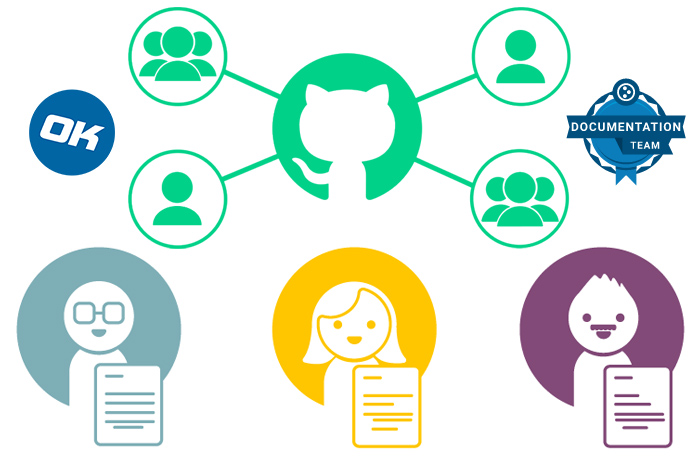
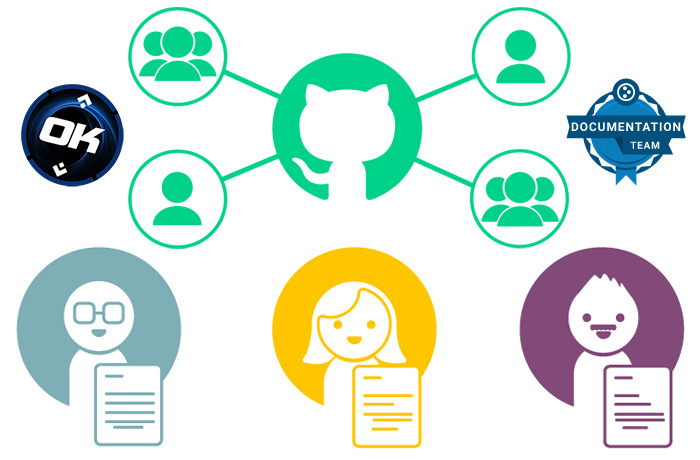
up + new brand

Changed region(s): [[0.03, 0.1826, 0.18, 0.4261]]

diff --git a/index.php b/index.php
@@ -16,6 +16,7 @@ $marketcap = file_get_contents("stats/marketcap.txt");
 	<meta property="og:image" content="https://okcash.co/images/okcash-ok.jpg">
 	<meta property="og:image:type" content="image/jpeg">
 	<meta property="og:image:width" content="900">
+	<meta property="og:image:width" content="900">
 	<meta property="og:image:height" content="450">
 	<meta property="og:type" content="website" />
     <meta property="og:url" content="https://okcash.co/"/>
@@ -45,7 +46,7 @@ $marketcap = file_get_contents("stats/marketcap.txt");
 	<header class="site-header is-sticky">
 
 		<!-- Place Particle Js -->
-		<div id="particles-js" class="particles-container particles-js"></div>
+		<!-- <div id="particles-js" class="particles-container particles-js"></div> -->
 
 		<!-- Navbar -->
 		<div class="navbar navbar-expand-lg is-transparent" id="mainnav">
@@ -74,14 +75,14 @@ $marketcap = file_get_contents("stats/marketcap.txt");
 								<a class="dropdown-item menu-link" href="#stats">OK Info + Stats</a>
 								<a class="dropdown-item menu-link" href="#worldwide">Worldwide Stats</a>
 								<a class="dropdown-item menu-link" href="#faq">Frequently AQ</a>
-								<a class="dropdown-item menu-link" href="#ok-voluntaries">OK voluntaries</a>
+								<a class="dropdown-item menu-link" href="#ok-voluntaries">OK volunteers</a>
 								<a class="dropdown-item menu-link" href="#sharing">Sharing is caring</a>
 							</div>
 						</li>
 					</ul>
 					<ul class="navbar-nav navbar-btns animated" data-animate="fadeInDown" data-delay="1.15">
-						<li class="nav-item"><a class="nav-link btn btn-sm btn-outline menu-link" href="https://chainz.cryptoid.info/ok/" target="_blank">OK explorer</a></li>
-						<li class="nav-item"><a class="nav-link btn btn-sm btn-outline menu-link" href="#apps">Free Download</a></li>
+						<li class="nav-item"><a class="nav-link btn btn-sm btn-outline menu-link" href="#apps">Download OK</a></li>
+						<li class="nav-item"><a class="nav-link btn btn-sm btn-outline menu-link" href="https://oktoken.cash" target="_blank">Swap OK BEP20</a></li>
 					</ul>
 				</div>
 			</nav>
@@ -98,8 +99,8 @@ $marketcap = file_get_contents("stats/marketcap.txt");
 								<h1 class="animated" data-animate="fadeInUp" data-delay="1.55">Okcash • Energy Friendly and Open source Peer-to-Peer Electronic Cash </h1>
 								<p class="lead color-secondary animated" data-animate="fadeInUp" data-delay="1.65">Micro Transactions • Speed • Efficiency • Security<br/>Decentralize Everything and Empower Everyone</p>
 								<ul class="btns animated" data-animate="fadeInUp" data-delay="1.75">
-									<li><a href="https://okcash.org/" target="_blank" class="btn">Learn more at Okcash.org</a></li>
-									<li><a href="https://bitcoinfullnode.org/" target="_blank" class="btn btn-alt">Visit BitcoinFullnode.org</a></li>
+									<li><a href="https://chainz.cryptoid.info/ok/" target="_blank" class="btn">Okcash [OK] Explorer</a></li>
+									<li><a href="https://bscscan.com/token/0x523821d20a283d955f6205b4c9252779cd0f964b" target="_blank" class="btn btn-alt">Wrapped Okcash [OK BEP20] Explorer</a></li>
 								</ul>
 								<ul class="social">
 									<li class="animated" data-animate="fadeInUp" data-delay="1.8"><a href="https://discord.io/cryptocurrency" target="_blank"><em class="fab fa-discord"></em></a></li>
@@ -115,8 +116,8 @@ $marketcap = file_get_contents("stats/marketcap.txt");
 						<div class="col-lg-6 col-md-12 order-first">
 							<div class="header-image animated" data-animate="fadeInRight" data-delay="1.25">
 								<img src="images/header-ok-btc-network.png" alt="header">
-								<img class="header-image-icon left-icon" src="images/okcash-icon-a.png" alt="header-icon">
-								<img class="header-image-icon right-icon" src="images/bitcoin-icon-b.png" alt="header-icon">
+								<!-- <img class="header-image-icon left-icon" src="images/okcash-icon-a.png" alt="header-icon">
+								<img class="header-image-icon right-icon" src="images/bitcoin-icon-b.png" alt="header-icon"> -->
 							</div>
 						</div><!-- .col  -->
 					</div><!-- .row  -->
@@ -141,7 +142,7 @@ $marketcap = file_get_contents("stats/marketcap.txt");
 						<h4 class="animated" data-animate="fadeInUp" data-delay="0">What is Okcash?</h4>
 						<p class="lead animated" data-animate="fadeInUp" data-delay=".1">OKCash is a hybrid cryptocurrency that evolved into a full Proof of Stake (PoS) system. [Efficient &amp; Energy Friendly]</p>
 						<p class="animated" data-animate="fadeInUp" data-delay=".2"> Okcash is simple to use, efficient and sustainable, it boasts of a confirmation rate higher than most cryptocurrencies, fast speeds, low fees, long term sustainable staking [With LTSSposv3hybrid system, Okcash reaches full predictability and it becomes like mining on Bitcoin (each block holds a semi-static reward, increasing even further the fairness and security of the chain over any actual PoS system)], and is also ready for the Internet of Things (IoT) and every OS Platform.</p>
-						<p class="animated" data-animate="fadeInUp" data-delay=".3">Okcash is a decentralized and fast growing  cryptocurrency / movement that was born on Nov 24th 2014. OK was mined (PoW-Scrypt) and evolved to be stake-able (PoS-LTSS-Sha256). Okcash is not a security, it never had an ICO, nor any kind of funding rounds. OK is self sustainable and is fully supported by voluntaries (Just like Bitcoin).</p>
+						<p class="animated" data-animate="fadeInUp" data-delay=".3">Okcash is a decentralized and fast growing  cryptocurrency / movement that was born on Nov 24th 2014. OK was mined (PoW-Scrypt) and evolved to be stake-able (PoS-LTSS-Sha256). Okcash is not a security, it never had an ICO, nor any kind of funding rounds. OK is self sustainable and is fully supported by volunteers (Just like Bitcoin).</p>
 					</div>
 				</div><!-- .col  -->
 			</div><!-- .row  -->
@@ -194,8 +195,8 @@ $marketcap = file_get_contents("stats/marketcap.txt");
 						<h2 class="section-title animated" data-animate="fadeInUp" data-delay="0">The Okcash Wallet 
 							<span>OK</span>
 						</h2>
-						<p class="animated" data-animate="fadeInUp" data-delay=".1">Your Okcash wallet is the software you use to send, receive and store your Okcash. It’s simple to use and you can choose to send and receive OK payments or secure messages from your own OK wallet.</p>
-						<a href="https://okcash.org/#jf_download" class="btn btn-sm" target="_blank">Join the OK movement and Get my Okcash wallet Now!</a>
+						<p class="animated" data-animate="fadeInUp" data-delay=".1">Your Okcash wallet is the software you use to send, receive and store your Okcash. It’s simple to use and you can choose to send and receive OK payments from your own OK wallet.</p>
+						<a href="https://okcash.org/#jf_download" class="btn btn-sm" target="_blank">Download the Okcash Wallet from Okcash.org</a>
 					</div>
 				</div>
 			</div>
@@ -214,7 +215,7 @@ $marketcap = file_get_contents("stats/marketcap.txt");
 						<ul class="animated" data-animate="fadeInUp" data-delay=".1">
 							<li>Multiplatform [Windows, Mac, Linux, Android, IoT devices]</li>
 							<li>100% upload time + Decentralized.</li>
-							<li>Efficiency [5+ years tested chain]</li>
+							<li>Efficiency [7+ years tested chain]</li>
 							<li>Availability world wide [Network running 24/7]</li>
 							<li>Transaction Speeds [Less than 72 seconds]</li>
 							<li>Lowest Fees [ 0.0001 OK = 0.000005 USD aprox*] </li>
@@ -403,55 +404,55 @@ $marketcap = file_get_contents("stats/marketcap.txt");
 				<div class="col-lg">
 					<div class="single-roadmap roadmap-lg roadmap-done">
 						<h6> </h6>
-						<p>• OK 5th Birthday <br/>• ROKOS 10 release <br/>• OK dev [Open source devs community for Okcash] <br/>• OK core design upgrade</p>
+						<p>• OK Birthday <br/>• ROKOS 10 release <br/>• OK dev [Open source devs community for Okcash] <br/>• OK core design upgrade</p>
 					</div>
 				</div><!-- .col  -->
 				<div class="col-lg width-0">
 					<div class="single-roadmap roadmap-down">
 						<h6> </h6>
-						<p>• TrustWallet Integration <br/>• OK web staking wallet <br/>• OK mobile staking wallet <br/>• OK core upgrade <br/>• Okcash wiki <br/>• OK network health nodes map </p>
+						<p>• OK network health nodes map <br/>• OK web staking wallet <br/>• OK mobile staking wallet <br/>• OK core upgrade <br/>• Okcash wiki </p>
 					</div>
 				</div><!-- .col  -->
 				<div class="col-lg">
 					<div class="single-roadmap roadmap-sm">
 						<h6> </h6>
-						<p>• Ledger Integration <br/>• OK self governance system [close test] <br/>• Okcash foundation <br/>• OK block reward halving <br/>• Decentralized / uncensorable OK website [UD + IPFS]</p>
+						<p>• Ledger Integration <br/>• TrustWallet Integration <br/>• OK block reward halving <br/>• OK self governance system [close test] <br/>• Decentralized / uncensorable OK website [UD + IPFS]</p>
 					</div>
 				</div><!-- .col  -->
 				<div class="col-lg width-0">
 					<div class="single-roadmap roadmap-down">
 						<h6> </h6>
-						<p>• OK self governance system [open test] <br/>• ROKOS 11 release <br/>• ROKOS + smart contracts [open test + giveaway to OK holders] <br/>• OK core upgrade</p>
+						<p>• ROKOS 11 release <br/>• ROKOS + smart contracts [Release + giveaway to OK holders] <br/>• OK core upgrade <br/>• OK self governance system [open test] </p>
 					</div>
 				</div><!-- .col  -->
 				<div class="col-lg">
 					<div class="single-roadmap roadmap-lg">
 						<h6> </h6>
-						<p>• OK 6th Birthday <br/>• OK Point of sale for IOT systems [open source] <br/>• ROKOS + smart contracts [release + giveaway to OK holders] <br/>• OK core upgrade</p>
+						<p>• OK Birthday <br/>• ROKOS + smart contracts [release + giveaway to OK holders] <br/>• OK core upgrade</p>
 					</div>
 				</div><!-- .col  -->
 				<div class="col-lg width-0">
 					<div class="single-roadmap roadmap-down">
 						<h6> </h6>
-						<p>• ROKOS 12 release <br/>• OK Dex [open test]</p>
+						<p><br/>• Okcash DEFI Bridge <br/>• Okcash Wrapped [ERC20] <br/>• Okcash Binance [BEP20] <br/>• Okcash NFTs </p>
 					</div>
 				</div><!-- .col  -->
 				<div class="col-lg">
 					<div class="single-roadmap roadmap-sm">
 						<h6> </h6>
-						<p>• OK Point of sale for multi platform [open source] <br/>• OK Dex [release] <br/>• OK game multi platform [open test] <br/>• OK core upgrade </p>
+						<p>• ROKOS 12 release <br/>• OK core upgrade <br/>• OK game multi platform [closed test] </p>
 					</div>
 				</div><!-- .col  -->
 				<div class="col-lg width-0">
 					<div class="single-roadmap roadmap-down">
 						<h6> </h6>
-						<p>• OK game multi platform [release] <br/>• OK readable addresses [open test] <br/>• OK core upgrade</p>
+						<p>• OK game multi platform [release] </p>
 					</div>
 				</div><!-- .col  -->
 				<div class="col-lg">
 					<div class="single-roadmap roadmap-lg">
 						<h6> </h6>
-						<p>• OK 7th Birthday <br/>• OK readable addresses [release] <br/>• OK easy (1 click) transfer system [open test] <br/>• ROKOS 13 release <br/>• OK core upgrade</p>
+						<p>• OK Birthday <br/>• OK web3 <br/>• OK core upgrade <br/>• ROKOS 13 release </p>
 					</div>
 				</div><!-- .col  -->
 			</div><!-- .row  -->
@@ -471,7 +472,7 @@ $marketcap = file_get_contents("stats/marketcap.txt");
 						<h2 class="section-title animated" data-animate="fadeInUp" data-delay="0">OK Supporters
 							<span>Okcash</span>
 						</h2>
-						<p class="animated" data-animate="fadeInUp" data-delay="0.1">OK is fully supported by voluntaries, different businesses, services, communities, groups and individuals world wide and anyone can join.<br/> Here are some out of many.</p>
+						<p class="animated" data-animate="fadeInUp" data-delay="0.1">OK is fully supported by volunteers, different businesses, services, communities, groups and individuals world wide and anyone can join.<br/> Here are some out of many.</p>
 					</div>
 				</div>
 			</div>
@@ -514,7 +515,7 @@ $marketcap = file_get_contents("stats/marketcap.txt");
 				<div class="col-md-6 col-lg-3">
 					<div class="team-circle animated" data-animate="fadeInUp" data-delay=".4">
 						<div class="team-photo">
-							<a href="https://github.com/Azure/azure-blockchain-projects/tree/master/baas-artifacts/linux-okcash" target="_blank"><img src="images/azure.jpg" alt="azure">
+							<a href="https://azure.microsoft.com/en-au/blog/azure-blockchain-update-8/" target="_blank"><img src="images/azure.jpg" alt="azure">
 							</a>
 						</div>
 						<div class="team-info">
@@ -567,7 +568,7 @@ $marketcap = file_get_contents("stats/marketcap.txt");
 				<div class="col-md-6 col-lg-3">
 					<div class="team-circle animated" data-animate="fadeInUp" data-delay=".3">
 						<div class="team-photo">
-							<a href="https://coinfestuk.org/" target="_blank"><img src="images/coinfestuk.jpg" alt="coinfestuk">
+							<a href="#" target="_self"><img src="images/coinfestuk.jpg" alt="coinfestuk">
 							</a>
 						</div>
 						<div class="team-info">
@@ -655,23 +656,7 @@ $marketcap = file_get_contents("stats/marketcap.txt");
 				<div class="col-md-6 col-lg-3">
 					<div class="team-circle animated" data-animate="fadeInUp" data-delay=".2">
 						<div class="team-photo">
-							<a href="https://blockfolio.com/" target="_blank"><img src="images/blockfolio.jpg" alt="blockfolio" />
-							</a>
-						</div>
-						<div class="team-info">
-							<h5 class="team-name">Blockfolio</h5>
-							<span class="team-title">Crypto News Signals / Cryptocurrency Tracking and more</span>
-							
-						</div>
-
-						
-					</div>
-				</div><!-- .col  -->
-
-				<div class="col-md-6 col-lg-3">
-					<div class="team-circle animated" data-animate="fadeInUp" data-delay=".2">
-						<div class="team-photo">
-							<a href="https://coinscouts.io/coin/okcash" target="_blank"><img src="images/coinscouts.jpg" alt="coinscouts" />
+							<a href="https://coinscouts.io" target="_blank"><img src="images/coinscouts.jpg" alt="coinscouts" />
 							</a>
 						</div>
 						<div class="team-info">
@@ -683,11 +668,59 @@ $marketcap = file_get_contents("stats/marketcap.txt");
 						
 					</div>
 				</div><!-- .col  -->
+
+				<div class="col-md-6 col-lg-3">
+					<div class="team-circle animated" data-animate="fadeInUp" data-delay=".2">
+						<div class="team-photo">
+							<a href="https://cryptoholics.com/" target="_blank"><img src="images/cryptoholics.png" alt="cryptoholics" />
+							</a>
+						</div>
+						<div class="team-info">
+							<h5 class="team-name">Cryptoholics</h5>
+							<span class="team-title">The Best Crypto Guides for all your needs</span>
+							
+						</div>
+
+						
+					</div>
+				</div><!-- .col  -->
 				
 			</div><!-- .row  -->
 			
-			
-			
+            <div class="row text-center">
+                <div class="col-md-6 col-lg-3">
+				    <div class="team-circle animated" data-animate="fadeInUp" data-delay=".2">
+						<div class="team-photo">
+							<a href="https://blockfolio.com/" target="_blank"><img src="images/blockfolio.jpg" alt="blockfolio" />
+							</a>
+						</div>
+						<div class="team-info">
+							<h5 class="team-name">Blockfolio</h5>
+							<span class="team-title">Crypto News Signals / Cryptocurrency Tracking and more</span>
+							
+						</div>
+						
+					</div>
+
+				</div><!-- .col  -->
+
+				<div class="col-md-6 col-lg-3">
+					<div class="team-circle animated" data-animate="fadeInUp" data-delay=".2">
+						<div class="team-photo">
+							<a href="https://www.cryptologi.st/" target="_blank"><img src="images/cryptologist.jpg" alt="cryptologist" />
+							</a>
+						</div>
+						<div class="team-info">
+							<h5 class="team-name">Cryptologi.st</h5>
+							<span class="team-title">Unique financial analysis on top 1500 crypto projects</span>
+							
+						</div>
+
+						
+					</div>
+				</div><!-- .col  -->
+
+			</div><!-- .row  -->
 			
 			
 			
@@ -1565,7 +1598,7 @@ $marketcap = file_get_contents("stats/marketcap.txt");
 			<div class="row text-center">
 				<div class="col">
 					<div class="section-head">
-						<h2 class="section-title animated" data-animate="fadeInUp" data-delay="0">Okcash
+						<h2 class="section-title animated" data-animate="fadeInUp" data-delay="0">Okcash Teams
 							<span>OK</span>
 						</h2>
 						<p class="animated" data-animate="fadeInUp" data-delay=".1">"We are the nerds, the misfits, the rebels, the troublemakers, the crazy ones enough to believe we can do so with our passion."
@@ -1575,12 +1608,12 @@ $marketcap = file_get_contents("stats/marketcap.txt");
 			</div>
 			<div class="row">
 				<div class="col-lg-8 offset-lg-2">
-					
+					<img src="images/ok-volunteers.png" alt="OK Volunteers">
 				</div>
 			</div>
 			<div class="row">
 				<div class="col-lg-8 offset-lg-2">
-					<img src="images/okcash-cryptocurrency.jpg" alt="OK">
+					<!-- <img src="images/okcash-cryptocurrency.jpg" alt="OK"> -->
 				</div>
 			</div>
 		</div>

diff --git a/okcodata.php b/okcodata.php
@@ -32,9 +32,10 @@ $fp = fopen('stats/marketplace.txt', 'w') or die("can't open file");
 fwrite($fp, $marketplace);
 fclose($fp);
 
-$url5 = "https://api.coincap.io/v2/assets/okcash";
-$json5 = json_decode(file_get_contents($url5), true);
-$marketcap = $json4["data"]["marketCapUsd"];
+$urlok221 = "http://chainz.cryptoid.info/ok/api.dws?q=ticker.usd";
+$pricecoin = json_decode(file_get_contents($urlok221), true);
+
+$marketcap = $totalcoins * $pricecoin;
 
 $fp = fopen('stats/marketcap.txt', 'w') or die("can't open file");
 fwrite($fp, $marketcap);
